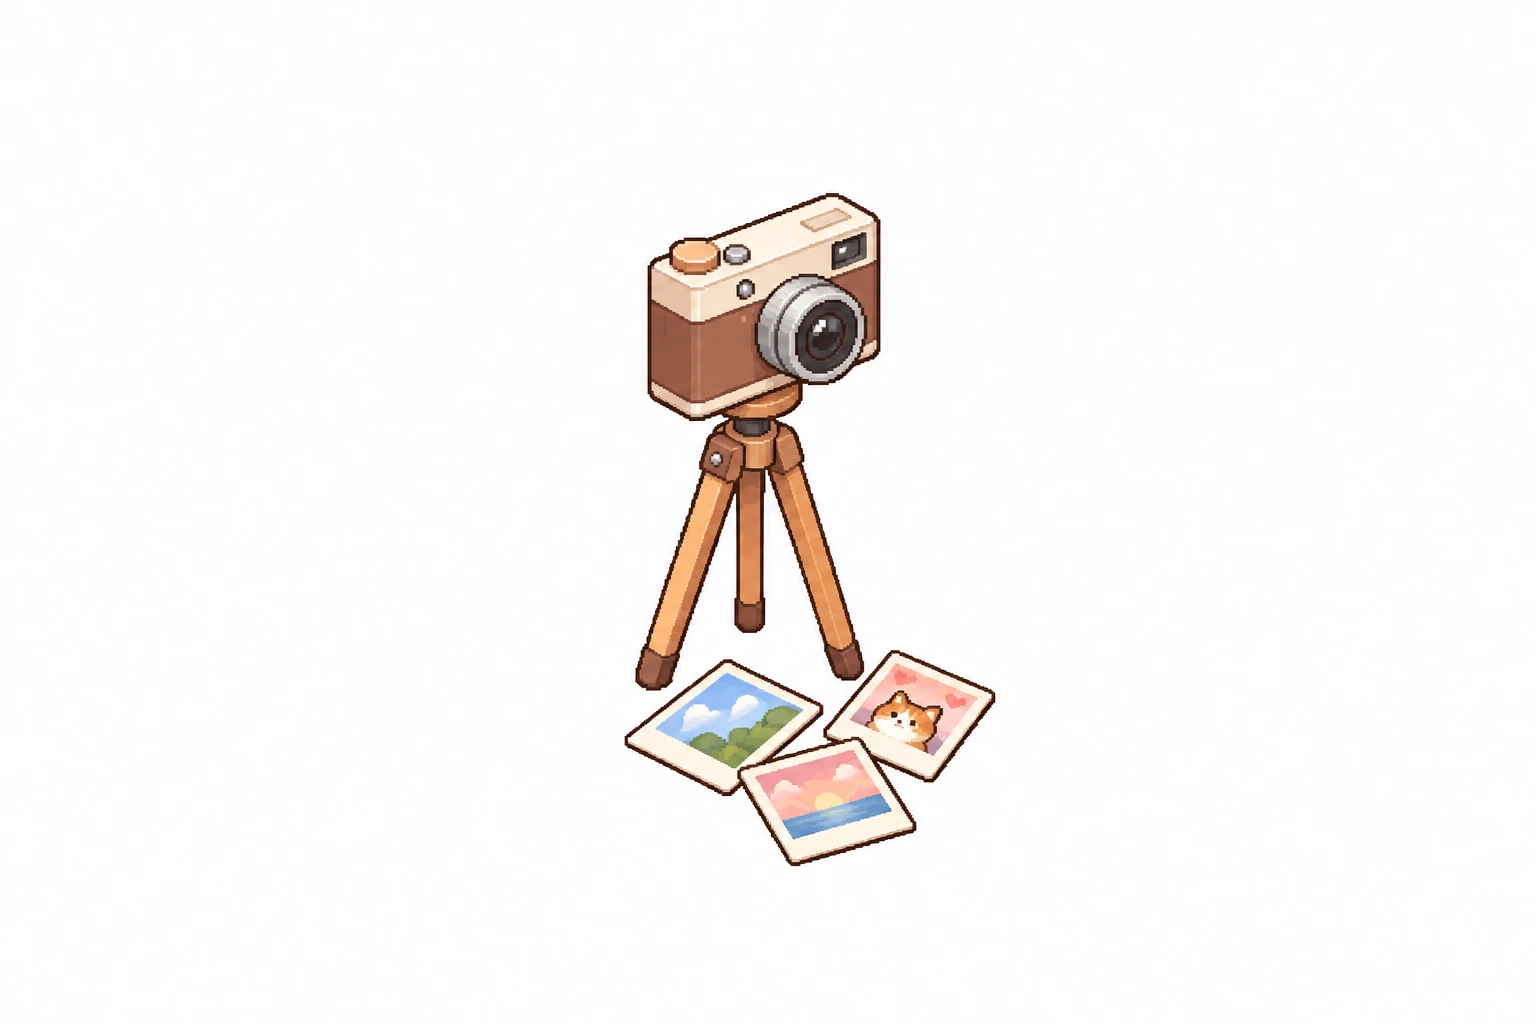
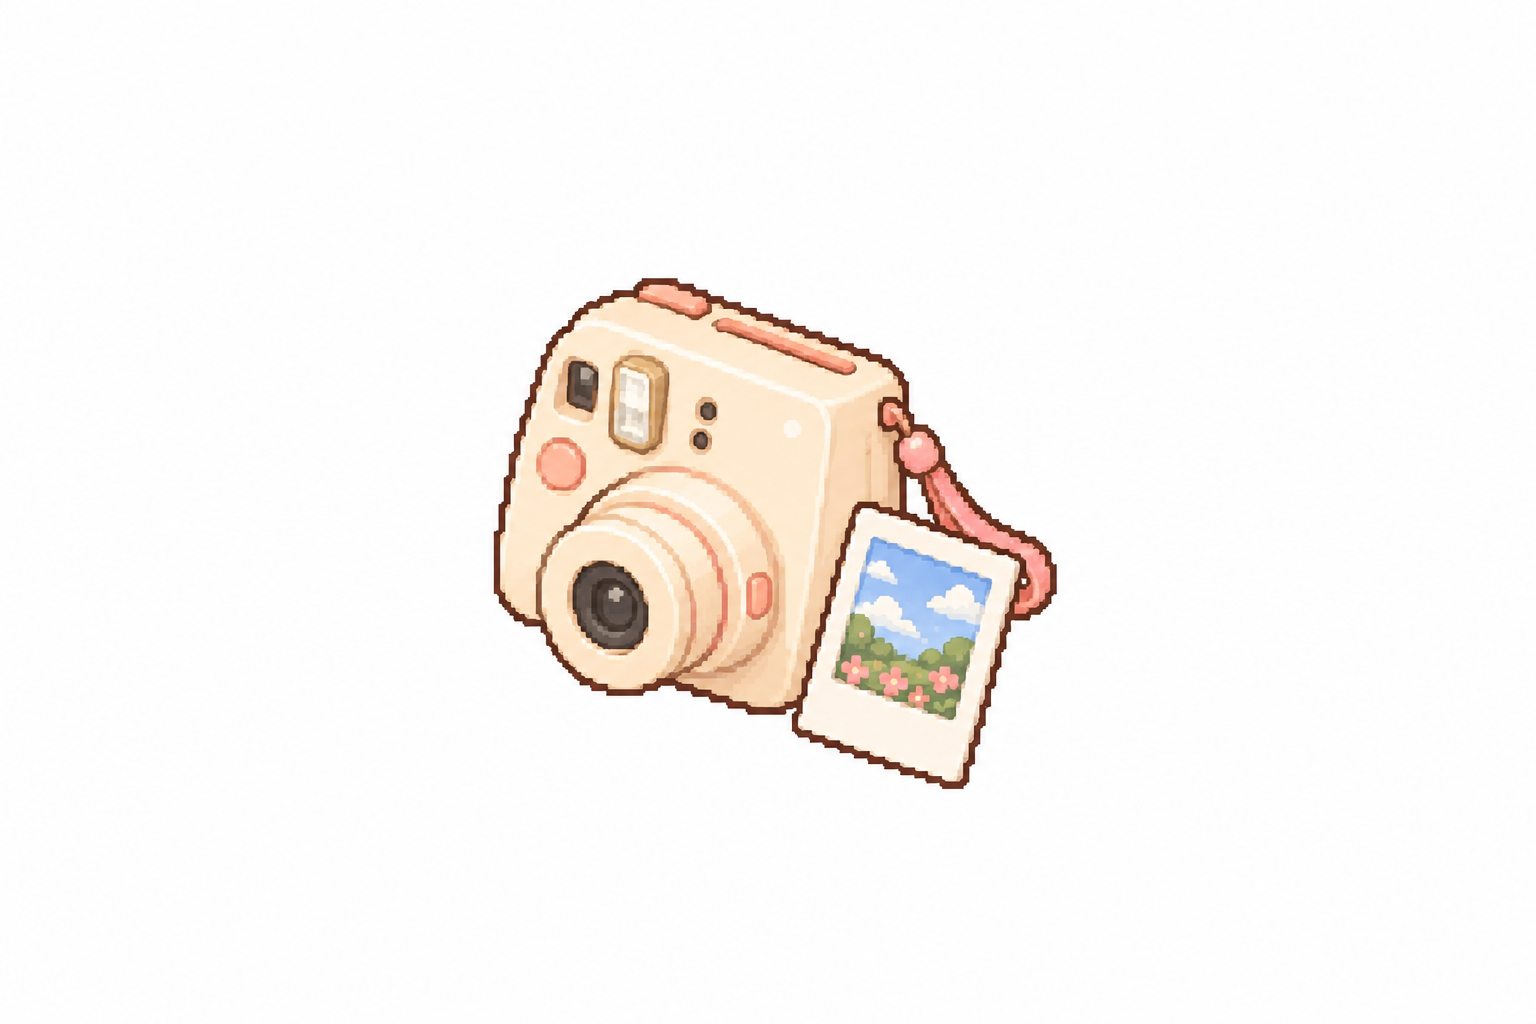
Room items: add 10 new pieces of furniture
Cupcake, retro phone, instant camera, family photo frame, succulents,
star string lights, landscape postcards, handheld game, yoga mat and a
stack of books, each placed in its planned spot. Wall pieces can now slant
up to the right (negative SHEAR) to follow the left wall and curtain rod.
The old mockup camera and cloud beanbag art are kept under new names.

Claude-Session: https://claude.ai/code/session_01MT4YkmG2KGTMjF5XqnwBbs

Changed region(s): [[0.3125, 0.1875, 0.6875, 0.8438]]

diff --git a/public/joys-config.js b/public/joys-config.js
@@ -16,6 +16,16 @@ export const IMPRINTS = {
   moon: { name: '月亮小夜燈', where: '床頭', x: 300, y: 468, w: 44, h: 56, z: 1 },
   star: { name: '星星吊飾', where: '書桌旁的牆上', x: 1022, y: 240, w: 200, h: 135, z: 1 },
   sneaker: { name: '地球儀', where: '書櫃上', x: 212, y: 396, w: 62, h: 86, z: 1 },
+  cake: { name: '杯子蛋糕', where: '書桌上', x: 705, y: 334, w: 58, h: 58, z: 1 },
+  call: { name: '復古電話', where: '書桌上', x: 948, y: 380, w: 72, h: 57, z: 1 },
+  camera: { name: '拍立得相機', where: '牆角的層架上', x: 715, y: 165, w: 58, h: 53, z: 1 },
+  home: { name: '全家福相框', where: '牆角的層架上', x: 842, y: 180, w: 56, h: 55, z: 1 },
+  plant: { name: '小多肉盆栽', where: '窗台上', x: 470, y: 398, w: 64, h: 49, z: 1 },
+  sparkle: { name: '星光串燈', where: '窗簾桿上', x: 470, y: 312, w: 300, h: 178, z: 2 },
+  sunset: { name: '風景明信片', where: '窗戶旁的牆上', x: 700, y: 270, w: 96, h: 79, z: 1 },
+  game: { name: '掌上遊戲機', where: '床上', x: 520, y: 515, w: 110, h: 69, z: 2 },
+  workout: { name: '瑜珈墊和啞鈴', where: '書櫃旁邊', x: 245, y: 705, w: 70, h: 106, r: .04, z: 4 },
+  book: { name: '一疊書', where: '小熊旁邊', x: 420, y: 712, w: 66, h: 65, r: .03, z: 5 },
 };
 
 // 擺放位置（多選一，使用者定案）：同一個位置一次只放一件；換上新的，原本那件自動收起來，隨時可以換回來

diff --git a/public/sw.js b/public/sw.js
@@ -1,5 +1,5 @@
 // 版本號：主.次.修（見 CLAUDE.md「版本號」）。改了任何檔案就把最後一位 +1，舊快取才會被清掉
-const VERSION = '0.0.93';
+const VERSION = '0.0.94';
 const CACHE = `lifelog-${VERSION}`;
 const ASSETS = [
   './',
@@ -61,6 +61,16 @@ const ASSETS = [
   './room/imprints/moon.webp',
   './room/imprints/star.webp',
   './room/imprints/sneaker.webp',
+  './room/imprints/cake.webp',
+  './room/imprints/call.webp',
+  './room/imprints/camera.webp',
+  './room/imprints/home.webp',
+  './room/imprints/plant.webp',
+  './room/imprints/sparkle.webp',
+  './room/imprints/sunset.webp',
+  './room/imprints/game.webp',
+  './room/imprints/workout.webp',
+  './room/imprints/book.webp',
   './joys/sparkle.webp',
   './joys/music.webp',
   './room/tv_on.webp',

diff --git a/art/tools/imprint_items.py b/art/tools/imprint_items.py
@@ -20,11 +20,14 @@ OUT = ROOT / 'public/room/imprints'
 LINE = (62, 23, 11)  # 房間外框的顏色
 # key: 在房間裡的寬度（房間座標）
 WIDTH = {'cat': 130, 'coffee': 70, 'meal': 170, 'gift': 105, 'bear': 95, 'hearts': 85,
-         'paw': 120, 'moon': 44, 'star': 200, 'sneaker': 62}
+         'paw': 120, 'moon': 44, 'star': 200, 'sneaker': 62,
+         'cake': 58, 'call': 72, 'camera': 58, 'home': 56, 'plant': 64, 'sparkle': 300, 'sunset': 96,
+         'game': 110, 'workout': 70, 'book': 66}
 # 掛在牆上的要照牆的斜度斜過去：每往右 1px 往下幾 px（GPT 畫的是正面，右牆約往下 0.49，原圖的線已經斜 0.19）
-SHEAR = {'star': 0.3}
+# 負的是往右上升：左牆、窗簾桿（約 -0.49）
+SHEAR = {'star': 0.3, 'sparkle': -0.49, 'sunset': -0.49}
 # 小東西的外框細一點（預設 3px）
-LINE_W = {'star': 2}
+LINE_W = {'star': 2, 'sparkle': 2}
 
 
 def reline(im, w=3):
@@ -44,8 +47,8 @@ def main():
         im = white_cut(SRC / f'{key}.png')
         if key in SHEAR:
             k = SHEAR[key]
-            dy = round(im.width * k)
-            im = im.transform((im.width, im.height + dy), Image.AFFINE, (1, 0, 0, -k, 1, 0), Image.NEAREST)
+            dy = round(im.width * abs(k))
+            im = im.transform((im.width, im.height + dy), Image.AFFINE, (1, 0, 0, -k, 1, min(0, k) * im.width), Image.NEAREST)
             im = im.crop(im.getbbox())
         im = im.resize((w, round(im.height * w / im.width)), Image.LANCZOS)
         im = reline(im, LINE_W.get(key, 3))

diff --git a/CLAUDE.md b/CLAUDE.md
@@ -163,7 +163,7 @@
   - 設定 `public/joys-config.js` 的 `IMPRINTS`：每件家具在房間的位置（底部中間 x,y）、大小、疊放順序 z、放在地板上的擋路半徑 r；改數字不用動程式。
   - 圖：`python3 art/tools/imprint_items.py` 把 `art/source/furniture/<key>.png`（GPT 白底單張）去背、縮到房間大小、外框重畫成房間的粗細顏色 → `public/room/imprints/<key>.webp`；新增要加進 `WIDTH`、`IMPRINTS`、`sw.js`。
   - **多選一的擺放位置**（使用者定案，取代原本的「新家具直接疊上去」）：`joys-config.js` 的 `SLOT_OF` 把 32 個圖示分到 23 個位置（`SLOTS` 是位置名稱），同一個位置一次只放一件。拿到新家具時位置已經有東西，視窗問「換上（原本的收起來）／先收著」；收藏冊的按鈕是「放到房間／換上／收起來」。`shownImprints` 和伺服器 `sharedView` 都是新放的在前，`onePerSlot` 每個位置只留第一件（兩台手機各放一件時，留最後放的）。多選一的位置：書桌左邊 coffee／cake、床上 cat／game、書櫃旁地板 gift／workout、地毯中間 meal／cook、電視櫃上 sun／movie／sing、門邊地板 umbrella／shop／clean、門上掛鉤 bath／bike。
-  - 擺放規劃（使用者定案）：拖鞋 hearts 在地毯左前方外緣、book 一疊書在小熊右邊、icecream 懶骨頭在左前方地板、bike 是掛在門上的安全帽；完整的 23 個位置見 `SLOT_OF`，還沒有圖的家具座標等圖做好再量。目前有圖的：cat 小貓抱枕、coffee 拿鐵、meal 小矮桌（電視前地毯上）、gift 禮物、bear 熊熊、hearts 愛心氣球、paw 貓狗玩偶（書櫃頂，地球儀旁邊）、moon 月亮小夜燈（床頭）、star 星星吊飾（右牆，`SHEAR` 照牆的斜度斜過去）、sneaker 地球儀（出外旅行，書櫃頂）；其他 14 個拿到會顯示「家具製作中」。**hearts 要換成「兩雙並排的室內拖鞋」**（使用者定案，放地毯左前方外緣，像脫了鞋要坐在地毯上吃飯；位置等圖做好再量），等 GPT 圖放進 `art/source/furniture/hearts.png` 再換；key 照舊用 hearts。還缺：music 唱片機、sunset 風景明信片。`art/source/furniture/shoes.png`（球鞋＋踏墊）先留著備用。
+  - 擺放規劃（使用者定案）：拖鞋 hearts 在地毯左前方外緣、book 一疊書在小熊右邊、icecream 懶骨頭在左前方地板、bike 是掛在門上的安全帽；完整的 23 個位置見 `SLOT_OF`，還沒有圖的家具座標等圖做好再量。目前有圖的：cat 小貓抱枕、coffee 拿鐵、meal 小矮桌（電視前地毯上）、gift 禮物、bear 熊熊、hearts 愛心氣球、paw 貓狗玩偶（書櫃頂，地球儀旁邊）、moon 月亮小夜燈（床頭）、star 星星吊飾（右牆，`SHEAR` 照牆的斜度斜過去）、sneaker 地球儀（出外旅行，書櫃頂）、cake 杯子蛋糕（書桌左邊）、call 復古電話（書桌右端）、camera 拍立得（角落層架左）、home 全家福相框（角落層架右）、plant 小多肉（窗台）、sparkle 星光串燈（窗簾桿，`SHEAR` -0.49：負的是往右上升，左牆和窗簾桿都是）、sunset 風景明信片（窗戶旁的牆，`SHEAR` -0.49）、game 掌上遊戲機（床上）、workout 瑜珈墊（書櫃旁）、book 一疊書（小熊旁）；其他的拿到會顯示「家具製作中」。舊模型圖改名成 `camera_tripod.png`（三腳架相機）、`cloud_beanbag.png`（雲朵懶骨頭），備用。**hearts 要換成「兩雙並排的室內拖鞋」**（使用者定案，放地毯左前方外緣，像脫了鞋要坐在地毯上吃飯；位置等圖做好再量），等 GPT 圖放進 `art/source/furniture/hearts.png` 再換；key 照舊用 hearts。`art/source/furniture/shoes.png`（球鞋＋踏墊）先留著備用。
   - 收藏冊在「累積幸福 → 全部」最下面，32 格（`JOY_ICONS` 全部）。
 - **使用者在小幸福選單（artifact）選了 32 個**：原本 24 個，加上 game 玩了喜歡的遊戲、cook 自己做了一頓飯、shop 買到喜歡的東西、workout 去運動了、movie 看了好看的電影、clean 把房間整理乾淨、call 和好久不見的人聊天、sing 大聲唱了歌。這 8 個已加進 `JOY_ICONS`（emoji）和 `ASK`，但**還沒有像素圖示**：不在 `JOY_PIX`，所以不能選來當小幸福或紙條貼圖（`PICKABLE_ICONS`），收藏冊顯示「即將推出」；圖做好放進 `public/joys/`、加進 `JOY_PIX` 和 `sw.js`，再加進 `SUGGESTIONS`。原本只有圖示的 6 個補了名稱，加進建議：被抱抱了 bear、照顧了植物 plant、完成了一件事 sparkle、雨天也很好 umbrella、吃到冰淇淋 icecream、騎車出去晃晃 bike。
 - 之後：Phase 2 幸福星罐、Phase 4 年度回顧卡、日記時間軸上的小印章；新房間草稿在 `art/source/room2/room_*.webp`（之後做換房間時用）。
